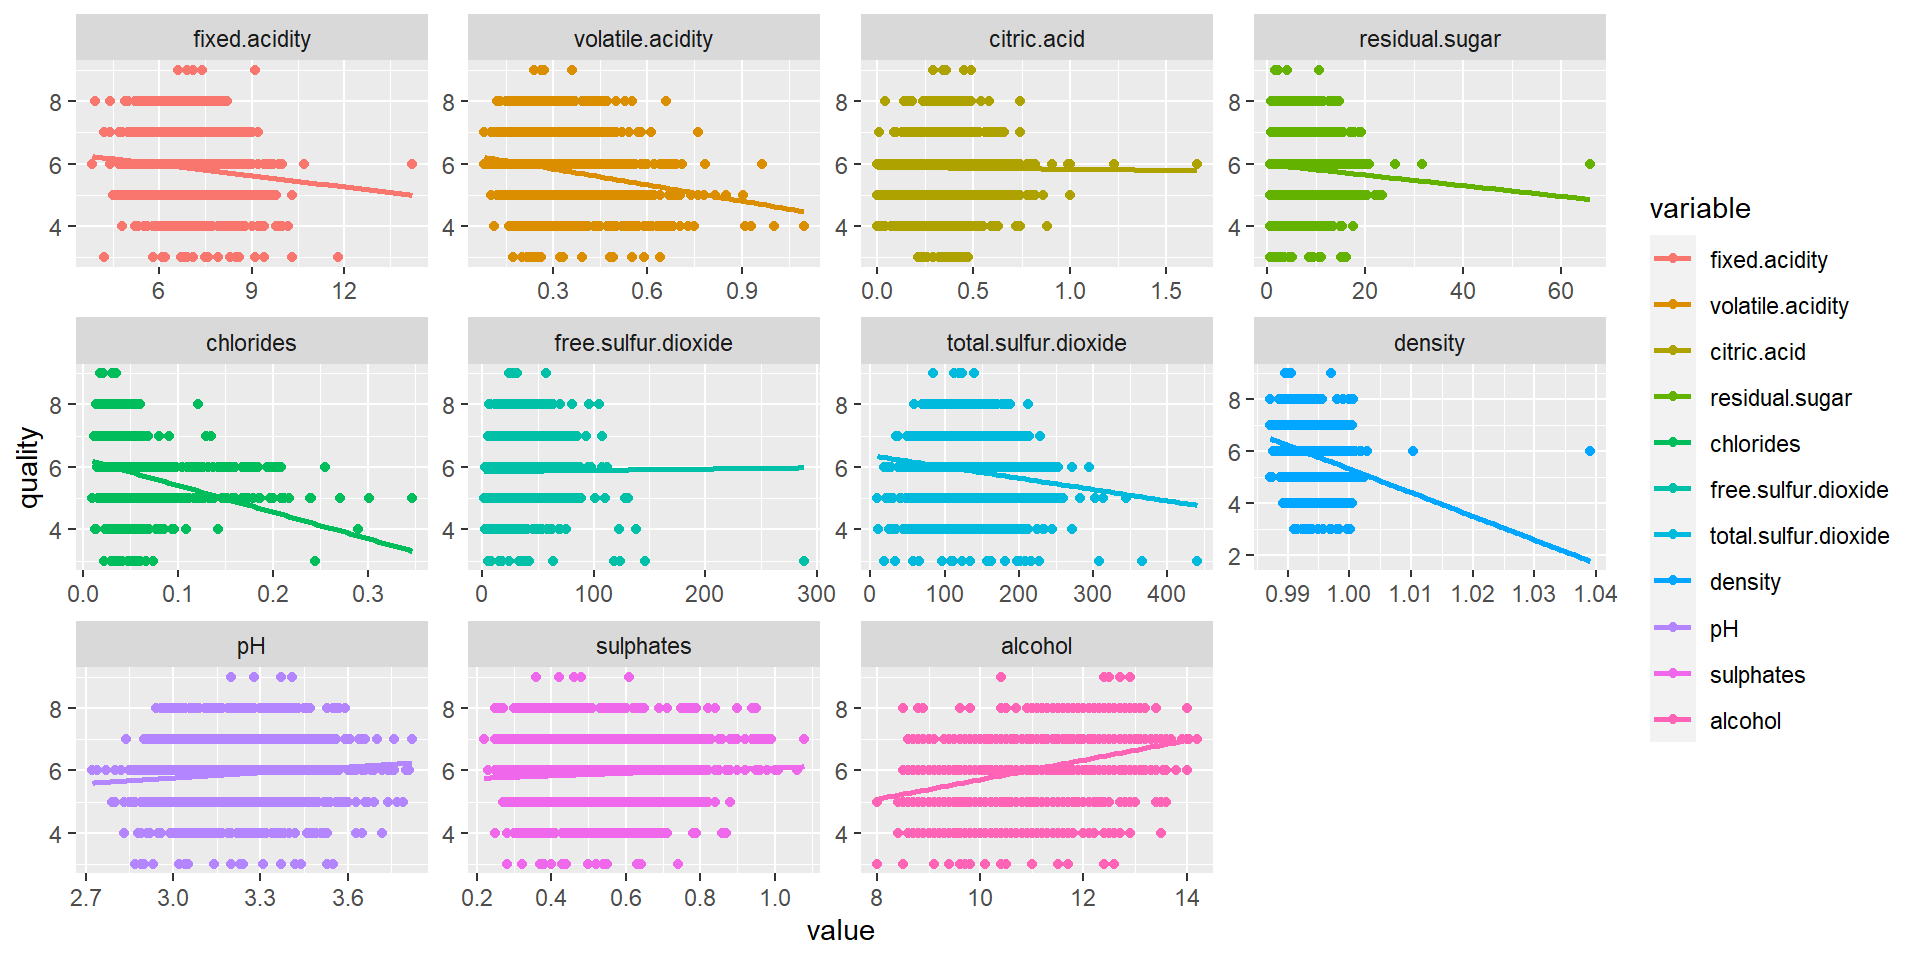
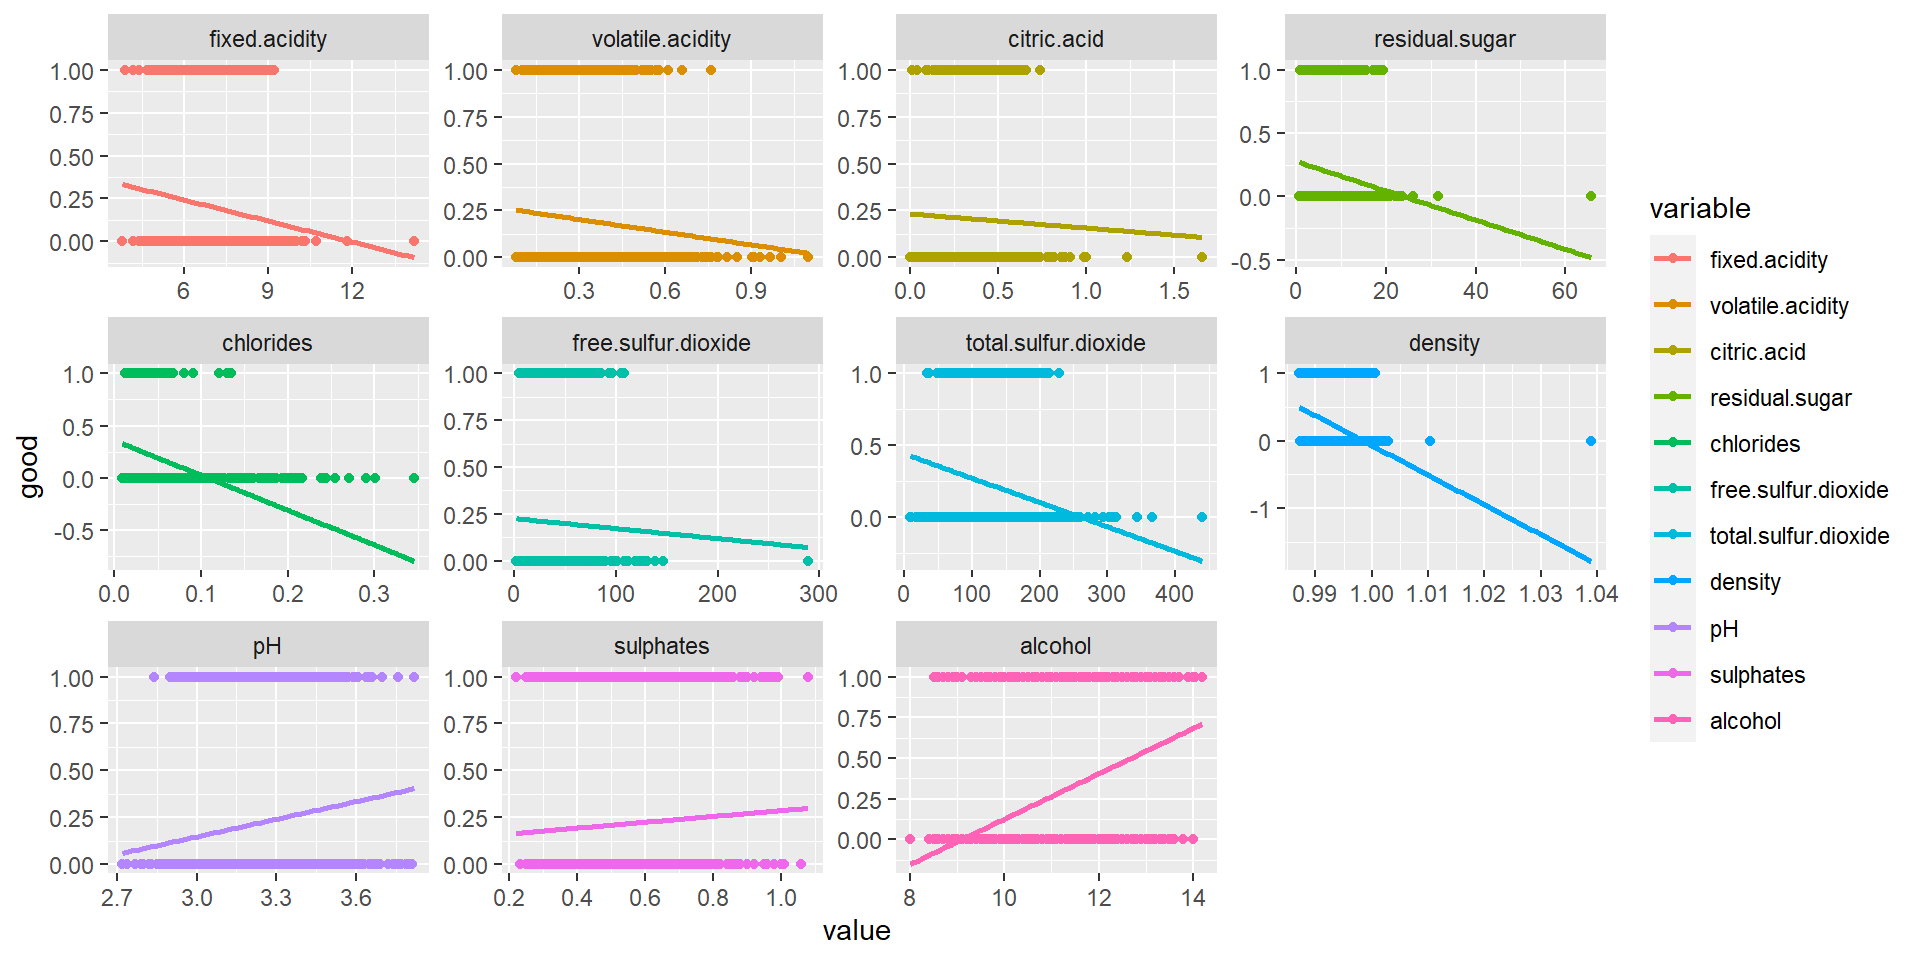
update preamble data relationships plot

diff --git a/_site/src/analysis.html b/_site/src/analysis.html
@@ -567,10 +567,10 @@ pre > code.sourceCode > span > a:first-child::before { text-decoration: underlin
 <div class="cell" data-layout-align="TRUE">
 <details>
 <summary>Show/Hide Code</summary>
-<div class="sourceCode cell-code" id="cb22"><pre class="sourceCode r code-with-copy"><code class="sourceCode r"><span id="cb22-1"><a href="#cb22-1" aria-hidden="true" tabindex="-1"></a>reshape2<span class="sc">::</span><span class="fu">melt</span>(wine.data[, <span class="dv">1</span><span class="sc">:</span><span class="dv">12</span>], <span class="st">"quality"</span>) <span class="sc">%&gt;%</span> </span>
-<span id="cb22-2"><a href="#cb22-2" aria-hidden="true" tabindex="-1"></a>  <span class="fu">ggplot</span>(<span class="fu">aes</span>(value, quality, <span class="at">color =</span> variable)) <span class="sc">+</span>  </span>
+<div class="sourceCode cell-code" id="cb22"><pre class="sourceCode r code-with-copy"><code class="sourceCode r"><span id="cb22-1"><a href="#cb22-1" aria-hidden="true" tabindex="-1"></a>reshape2<span class="sc">::</span><span class="fu">melt</span>(wine.data_cleaned[, <span class="dv">1</span><span class="sc">:</span><span class="dv">12</span>], <span class="st">"good"</span>) <span class="sc">%&gt;%</span> </span>
+<span id="cb22-2"><a href="#cb22-2" aria-hidden="true" tabindex="-1"></a>  <span class="fu">ggplot</span>(<span class="fu">aes</span>(value, good, <span class="at">color =</span> variable)) <span class="sc">+</span>  </span>
 <span id="cb22-3"><a href="#cb22-3" aria-hidden="true" tabindex="-1"></a>  <span class="fu">geom_point</span>() <span class="sc">+</span> </span>
-<span id="cb22-4"><a href="#cb22-4" aria-hidden="true" tabindex="-1"></a>  <span class="fu">geom_smooth</span>(<span class="fu">aes</span>(value,quality, <span class="at">colour=</span>variable), <span class="at">method=</span>lm, <span class="at">se=</span><span class="cn">FALSE</span>)<span class="sc">+</span></span>
+<span id="cb22-4"><a href="#cb22-4" aria-hidden="true" tabindex="-1"></a>  <span class="fu">geom_smooth</span>(<span class="fu">aes</span>(value, good, <span class="at">colour=</span>variable), <span class="at">method=</span>lm, <span class="at">se=</span><span class="cn">FALSE</span>)<span class="sc">+</span></span>
 <span id="cb22-5"><a href="#cb22-5" aria-hidden="true" tabindex="-1"></a>  <span class="fu">facet_wrap</span>(.<span class="sc">~</span>variable, <span class="at">scales =</span> <span class="st">"free"</span>)</span></code><button title="Copy to Clipboard" class="code-copy-button"><i class="bi"></i></button></pre></div>
 </details>
 <div class="cell-output-display">
@@ -1195,10 +1195,10 @@ window.document.addEventListener("DOMContentLoaded", function (event) {
 <span id="cb25-158"><a href="#cb25-158" aria-hidden="true" tabindex="-1"></a></span>
 <span id="cb25-159"><a href="#cb25-159" aria-hidden="true" tabindex="-1"></a><span class="fu">## Data Relationships</span></span>
 <span id="cb25-160"><a href="#cb25-160" aria-hidden="true" tabindex="-1"></a><span class="in">```{r relation_plot, fig.width=10, fig.height=5, message=FALSE}</span></span>
-<span id="cb25-161"><a href="#cb25-161" aria-hidden="true" tabindex="-1"></a>reshape2<span class="sc">::</span><span class="fu">melt</span>(wine.data[, <span class="dv">1</span><span class="sc">:</span><span class="dv">12</span>], <span class="st">"quality"</span>) <span class="sc">%&gt;%</span> </span>
-<span id="cb25-162"><a href="#cb25-162" aria-hidden="true" tabindex="-1"></a>  <span class="fu">ggplot</span>(<span class="fu">aes</span>(value, quality, <span class="at">color =</span> variable)) <span class="sc">+</span>  </span>
+<span id="cb25-161"><a href="#cb25-161" aria-hidden="true" tabindex="-1"></a>reshape2<span class="sc">::</span><span class="fu">melt</span>(wine.data_cleaned[, <span class="dv">1</span><span class="sc">:</span><span class="dv">12</span>], <span class="st">"good"</span>) <span class="sc">%&gt;%</span> </span>
+<span id="cb25-162"><a href="#cb25-162" aria-hidden="true" tabindex="-1"></a>  <span class="fu">ggplot</span>(<span class="fu">aes</span>(value, good, <span class="at">color =</span> variable)) <span class="sc">+</span>  </span>
 <span id="cb25-163"><a href="#cb25-163" aria-hidden="true" tabindex="-1"></a>  <span class="fu">geom_point</span>() <span class="sc">+</span> </span>
-<span id="cb25-164"><a href="#cb25-164" aria-hidden="true" tabindex="-1"></a>  <span class="fu">geom_smooth</span>(<span class="fu">aes</span>(value,quality, <span class="at">colour=</span>variable), <span class="at">method=</span>lm, <span class="at">se=</span><span class="cn">FALSE</span>)<span class="sc">+</span></span>
+<span id="cb25-164"><a href="#cb25-164" aria-hidden="true" tabindex="-1"></a>  <span class="fu">geom_smooth</span>(<span class="fu">aes</span>(value, good, <span class="at">colour=</span>variable), <span class="at">method=</span>lm, <span class="at">se=</span><span class="cn">FALSE</span>)<span class="sc">+</span></span>
 <span id="cb25-165"><a href="#cb25-165" aria-hidden="true" tabindex="-1"></a>  <span class="fu">facet_wrap</span>(.<span class="sc">~</span>variable, <span class="at">scales =</span> <span class="st">"free"</span>)</span>
 <span id="cb25-166"><a href="#cb25-166" aria-hidden="true" tabindex="-1"></a></span>
 <span id="cb25-167"><a href="#cb25-167" aria-hidden="true" tabindex="-1"></a><span class="co"># Collinearity between Attributes</span></span>
